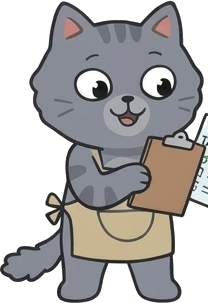
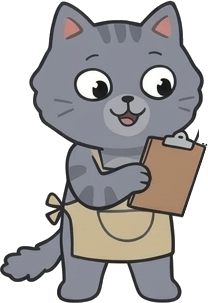
서류철 고양이 그림에서 옆 캐릭터 서류 조각 지우기(다각형 지우기), 1월 부가세 만화 초안

Changed region(s): [[0.8942, 0.3564, 1.0, 0.6832], [0.8654, 0.6832, 0.8942, 0.7129]]

diff --git a/_tools/toon-cut.html b/_tools/toon-cut.html
@@ -10,7 +10,7 @@
 <script>
 const CUTS = [
   ["이모션8", "dog-checklist", 60, 40, 350, 380], ["이모션8", "dog-reach", 425, 50, 285, 365], ["이모션8", "dog-cashier", 795, 40, 395, 370],
-  ["이모션8", "cat-clipboard", 15, 500, 211, 390], ["이모션8", "cat-guide", 222, 500, 233, 390], ["이모션8", "cat-papers", 450, 440, 345, 450],
+  ["이모션8", "cat-clipboard", 15, 500, 211, 390, [[[217, 652], [245, 652], [245, 780], [201, 780], [201, 753], [225.5, 680], [224, 678], [217, 678]]]], ["이모션8", "cat-guide", 222, 500, 233, 390], ["이모션8", "cat-papers", 450, 440, 345, 450],
   ["이모션8", "cat-cashier", 770, 500, 254, 390, [[1006, 500, 1024, 683], [1018, 740, 1024, 890], [965, 760, 1024, 830]]], ["이모션8", "cat-moneybags", 1003, 500, 197, 390, [[1003, 683, 1022, 750], [1003, 600, 1009, 683]]],
   ["이모션9", "dog-stamp", 60, 40, 350, 380], ["이모션9", "dog-rich", 435, 15, 385, 400], ["이모션9", "dog-dizzy", 870, 0, 330, 420],
   ["이모션9", "cat-stamp", 15, 500, 192, 390], ["이모션9", "cat-contract", 207, 500, 248, 390], ["이모션9", "cat-rich", 450, 440, 350, 450],
@@ -22,7 +22,11 @@ const load = n => sheets[n] || (sheets[n] = new Promise(r => { const i = new Ima
   for (const [sheet, name, x, y, w, h, erase = []] of CUTS) {
     const img = await load(sheet), c = document.createElement("canvas"); c.width = w; c.height = h;
     const g = c.getContext("2d"); g.drawImage(img, x, y, w, h, 0, 0, w, h);
-    g.fillStyle = "#fff"; for (const [a, b, c2, d2] of erase) g.fillRect(a - x, b - y, c2 - a, d2 - b); // 옆 캐릭터와 겹친 곳(시트 좌표)
+    g.fillStyle = "#fff"; // 옆 캐릭터와 겹친 곳(시트 좌표): [x0,y0,x1,y1] 사각형 또는 [[x,y],...] 다각형
+    for (const e of erase) {
+      if (typeof e[0] === "number") { g.fillRect(e[0] - x, e[1] - y, e[2] - e[0], e[3] - e[1]); continue; }
+      g.beginPath(); e.forEach(([px, py], i) => (i ? g.lineTo : g.moveTo).call(g, px - x, py - y)); g.closePath(); g.fill();
+    }
     const d = g.getImageData(0, 0, w, h), p = d.data, N = w * h;
     const light = k => p[k * 4] > 228 && p[k * 4 + 1] > 228 && p[k * 4 + 2] > 228;
     const bg = new Uint8Array(N), st = [];

diff --git a/_tools/toon.html b/_tools/toon.html
@@ -215,6 +215,25 @@ const decks = {
         talk: [["이웃 사장님", "신청 순서 보여 줄게요<br>따라와 봐요!", "r"]] },
     ],
   },
+  "vat-return-checklist-january": {
+    title: "1월 부가세, <b>미리</b> 챙길 것?",
+    date: "2026.11",
+    cells: [
+      { bg: "#fdf1d6",
+        scene: pic("cat-papers", 250, 650, 450, { rot: -2 }),
+        talk: [["", "1월에 부가세 신고…<br>뭐부터 해야 하지?"]] },
+      { bg: "#e3eefb",
+        scene: desk("#9cc1e8") + pic("cat-listen", 120, 630, 360, { rot: -3 }) + pic("dog-checklist", 318, 640, 440, { flip: true, rot: 2 }),
+        talk: [["", "순서가 있어요?"], ["이웃 사장님", "<em>12월부터</em> 하나씩<br>챙기면 돼요", "r"]] },
+      { bg: "#e6e1f7",
+        scene: burst(320, 380) + desk("#b9a8e8") + pic("cat-clipboard", 125, 645, 380, { rot: -3 }) + pic("dog-reach", 345, 630, 380, { flip: true, rot: 2 }),
+        talk: [["이웃 사장님", "카드 자료는<br><em>1월 15일경</em>부터 들어와요", "r"]] },
+      { bg: "#fbe1e8",
+        scene: burst(330, 360, 12, 60, 400, "#fff6f8") + pic("cat-happy", 115, 520, 300, { rot: -6 })
+          + pic("dog-talk", 320, 610, 400, { flip: true, rot: 4 }) + star(220, 200, 0.7),
+        talk: [["이웃 사장님", "날짜 순서 보여 줄게요<br>따라와 봐요!", "r"]] },
+    ],
+  },
 };
 
 const deck = decks[location.hash.slice(1)] || Object.values(decks)[0];
